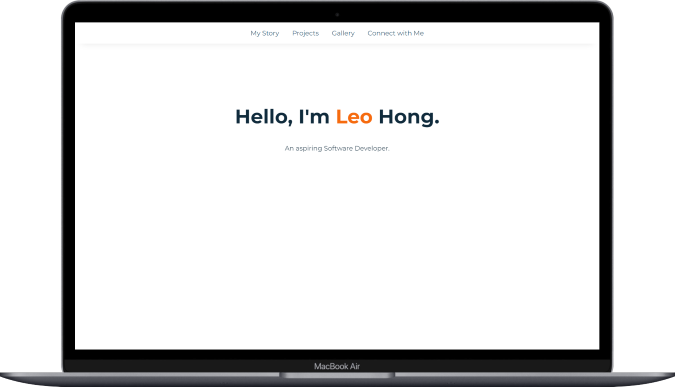
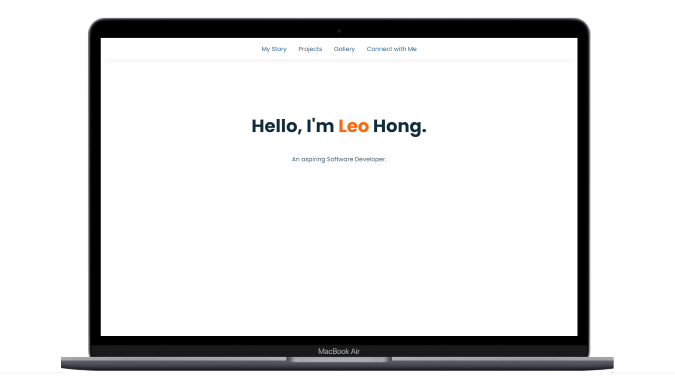
tweak fonts

Changed region(s): [[0.0, 0.0, 1.0, 1.0], [0.3422, 0.2791, 0.6533, 0.3721], [0.4356, 0.3721, 0.5911, 0.4341]]

diff --git a/tribute-page/index.html b/tribute-page/index.html
@@ -1,5 +1,5 @@
 <!DOCTYPE html>
-<html lang="en" dir="ltr">
+<html lang="zh-Hant" dir="ltr">
 
 <head>
   <meta charset="utf-8">
@@ -8,10 +8,10 @@
   <!-- Google web font -->
   <link rel="preconnect" href="https://fonts.googleapis.com">
   <link rel="preconnect" href="https://fonts.gstatic.com" crossorigin>
-  <link href="https://fonts.googleapis.com/css2?family=Noto+Sans+TC:wght@300;400&family=Noto+Serif+TC&family=Roboto:wght@300&display=swap" rel="stylesheet">
+  <link href="https://fonts.googleapis.com/css2?family=Noto+Sans+TC:wght@300;500&family=Poppins:wght@300;500&display=swap" rel="stylesheet">
+  <!-- custom stylesheet -->
   <link rel="stylesheet" href="style.css">
   <title>米芾: 超越百家的偉大書家</title>
-
 
 </head>
 
@@ -19,8 +19,8 @@
   <main id="main">
     <div class="color1">
       <header>
-        <h1 id="title">米芾 - Mi Fu</h1>
-        <h2 id="description">超越百家的偉大書家 - The great calligrapher surpassing numerousness</h2>
+        <h1 id="title">米芾 <span class="en">Mi Fu</span></h1>
+        <h2 id="description">超越百家的偉大書家 <span class="en">The great calligrapher surpassing numerousness</span></h2>
       </header>
       <figure id="img-div"><img id="image" width="256" alt="米芾画像" src="mi-fu-portrait-crop.jpg">
         <figcaption id="img-caption">米芾畫像，出自（北宋）晁補之《米襄陽洗硯圖》</figcaption>
@@ -29,7 +29,7 @@
 
     <div class="color2">
       <section id="tribute-info" class="">
-		<h2>小傳 - Biography</h2>
+		<h2>小傳 <span class="en">Biography</span></h2>
         <p>米芾（1051年－1107年），北宋書畫家。初名黻，字元章，太原人，號襄陽漫士、海岳外史、鹿門居士。北宋著名書法家、書畫理論家、畫家、鑑定家、收藏家。</p>
         <p>Source: <a id="tribute-link" href="https://en.wikipedia.org/wiki/Mi_Fu" target="_blank">Wikipedia</a></p>
 

diff --git a/technical-documentation-page/index.html b/technical-documentation-page/index.html
@@ -5,7 +5,11 @@
   <meta charset="utf-8">
   <!-- responsive -->
   <meta name="viewport" content="width=device-width,initial-scale=1">
-  <link href='https://fonts.googleapis.com/css?family=Open+Sans' rel='stylesheet'>
+  <!-- Google web fonts -->
+  <link rel="preconnect" href="https://fonts.googleapis.com">
+  <link rel="preconnect" href="https://fonts.gstatic.com" crossorigin>
+  <link href="https://fonts.googleapis.com/css2?family=Poppins:wght@400;700&display=swap" rel="stylesheet">
+  <!-- custom stylesheet -->
   <link rel="stylesheet" href="style.css">
   <title>CSS: Cascading Style Sheets | Technical Documentation Page</title>
 </head>

diff --git a/tribute-page/style.css b/tribute-page/style.css
@@ -11,17 +11,22 @@
 }
 
 body {
-  font-family: Roboto, 'Noto Sans TC', sans-serif;
+  font-family: 'Poppins', 'Noto Sans TC', sans-serif;
   line-height: 1.5;
   font-size: 1.25rem;
   font-weight: 300;
 }
 
 h1, h2, h3, h4, h5, h6 {
-  font-family: 'Noto Serif TC', serif;
   text-align: center;
-  letter-spacing: 0.2rem;
-  text-indent: 0.2rem;
+  font-weight: 500;
+  letter-spacing: 0.25rem;
+  text-indent: 0.25rem;
+}
+
+.en {
+  letter-spacing: 0;
+  text-indent: 0;
 }
 
 a {
@@ -97,6 +102,7 @@ figcaption {
 footer {
   padding: 2rem 1rem;
   text-align: center;
+  font-size: 1rem;
 }
 
 @media only screen and (max-width: 768px) {

diff --git a/personal-portfolio-webpage/index.html b/personal-portfolio-webpage/index.html
@@ -14,7 +14,7 @@
   <!-- Google web font -->
   <link rel="preconnect" href="https://fonts.googleapis.com">
   <link rel="preconnect" href="https://fonts.gstatic.com" crossorigin>
-  <link href="https://fonts.googleapis.com/css2?family=Montserrat:wght@300;400;700&display=swap" rel="stylesheet">
+  <link href="https://fonts.googleapis.com/css2?family=Poppins:wght@300;400;700&display=swap" rel="stylesheet">
   <!-- stylesheet -->
   <link rel="stylesheet" href="style.css">
 </head>

diff --git a/technical-documentation-page/style.css b/technical-documentation-page/style.css
@@ -1,15 +1,11 @@
 body {
   font-size: 1rem;
-  font-family: 'Open Sans', sans-serif;
+  font-family: 'Poppins', sans-serif;
   line-height: 1.8;
 }
 
 h1, h2, h3, h4, h5, h6 {
   font-weight: bold;
-}
-
-h1 {
-  color: purple;
 }
 
 #body-wrapper {
@@ -63,7 +59,7 @@ code {
     border-radius: 0.25rem;
 }
 
-@media only screen and (max-width: 768px) {
+@media only screen and (max-width: 992px) {
   #navbar {
     position: relative;
     width: 100%;

diff --git a/survey-form/index.html b/survey-form/index.html
@@ -5,11 +5,8 @@
   <meta charset="utf-8">
   <!-- responsive -->
   <meta name="viewport" content="width=device-width,initial-scale=1">
-  <link href='https://fonts.googleapis.com/css?family=Roboto' rel='stylesheet'>
   <link rel="stylesheet" href="style.css">
   <title>freeCodeCamp: Survey Form</title>
-
-
 </head>
 
 <body>

diff --git a/survey-form/style.css b/survey-form/style.css
@@ -1,5 +1,5 @@
 body {
-  font-family: 'Roboto', sans-serif;
+  font-family: sans-serif;
   font-size: 1rem;
   line-height: 1.5;
 }
@@ -14,6 +14,10 @@ body {
   .container {
     width: auto;
   }
+}
+
+header {
+  padding: 0 2rem;
 }
 
 header, footer {

diff --git a/personal-portfolio-webpage/style.css b/personal-portfolio-webpage/style.css
@@ -5,7 +5,7 @@
 body {
   min-width: 22rem;
   max-width: 180rem;
-  font-family: 'Montserrat', sans-serif;
+  font-family: 'Poppins', sans-serif;
   font-size: 1rem;
   text-align: center;
   color: #112B3C;
